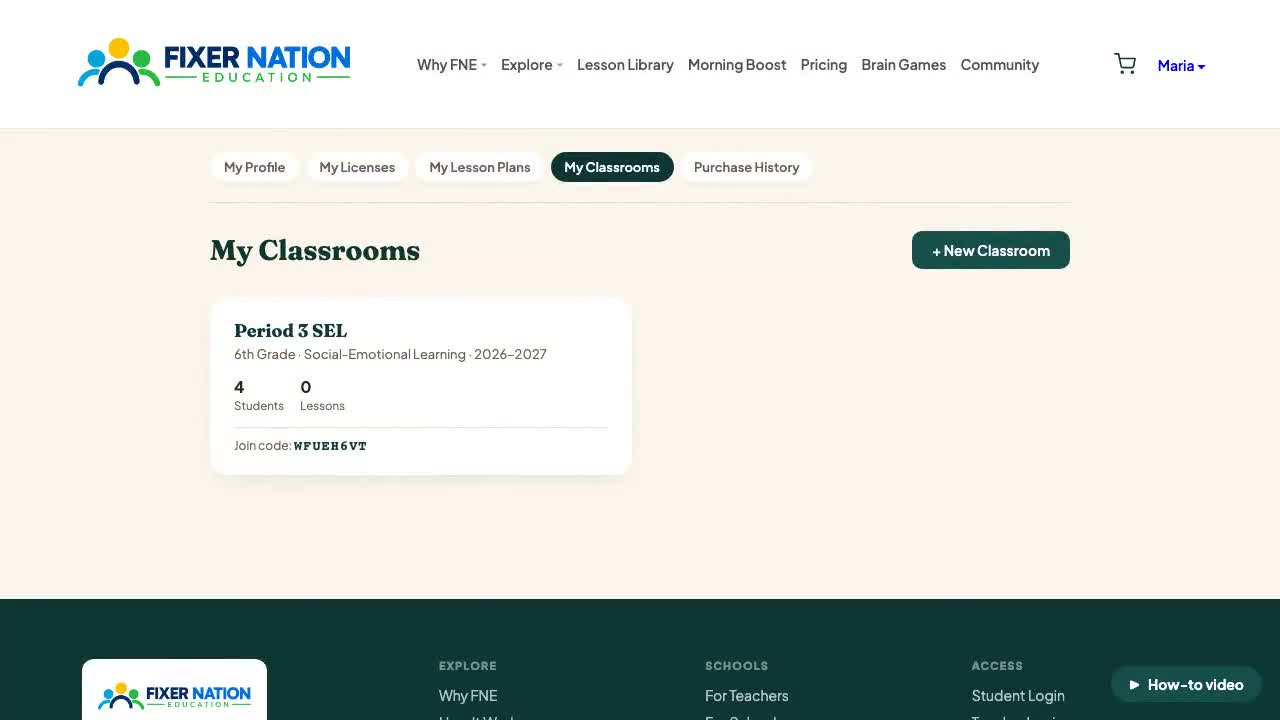
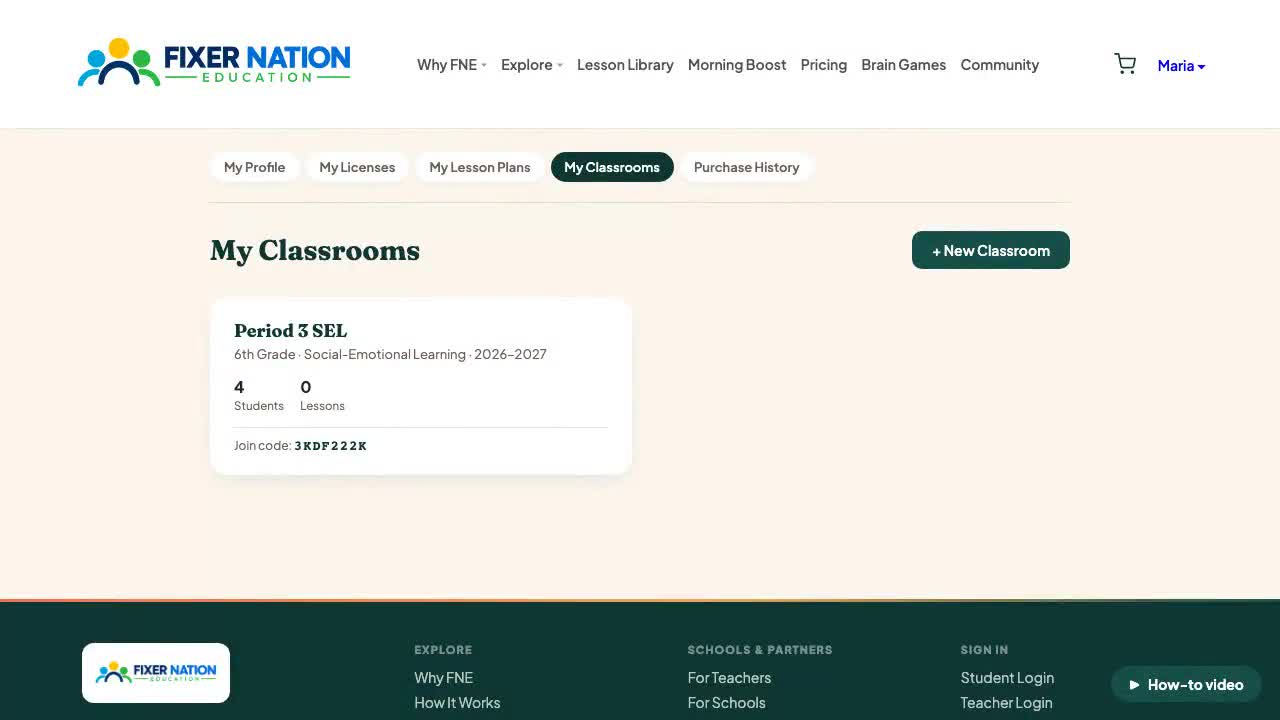
Release 156: T4 republished with the ideas box; My Graduate Portrait recommended answers
- T4 (Assign lessons and brain games) re-recorded and uploaded: narration and
  screen now cover the optional "Not sure what to assign?" ideas box. New
  captions and poster; help-videos.js is ?v=20 on every page that loads it.
- My Graduate Portrait requirements: researched recommended answers for
  D1 to D14 (section 13) with sources, and two more lawyer questions.
- CHANGELOG and VIDEO-STATUS updated.

diff --git a/help-videos.js b/help-videos.js
@@ -145,7 +145,7 @@
       pages: ['social-profile.html'], url: 'https://res.cloudinary.com/x9ll3a3t/video/upload/v1793737090/fne/help/M4.mp4', captions: '/help-assets/M4.vtt', poster: '/help-assets/M4.jpg' },
     { id: 'T4', group: 'teachers', topic: 'Lessons and results', title: 'Assign lessons and brain games',
       summary: 'Choose lessons and brain games for your class.',
-      pages: ['teacher-classroom.html'], url: 'https://res.cloudinary.com/x9ll3a3t/video/upload/v1793412324/fne/help/T4.mp4', captions: '/help-assets/T4.vtt', poster: '/help-assets/T4.jpg' },
+      pages: ['teacher-classroom.html'], url: 'https://res.cloudinary.com/x9ll3a3t/video/upload/v1794151372/fne/help/T4.mp4', captions: '/help-assets/T4.vtt', poster: '/help-assets/T4.jpg' },
     { id: 'T5', group: 'teachers', topic: 'Lessons and results', title: 'Read progress and student reflections',
       summary: 'See who started and finished, quiz scores and written reflections.',
       pages: ['teacher-classroom-progress.html', 'teacher-game-report.html'], url: 'https://res.cloudinary.com/x9ll3a3t/video/upload/v1793412326/fne/help/T5.mp4', captions: '/help-assets/T5.vtt', poster: '/help-assets/T5.jpg' },

diff --git a/admin-support-help.html b/admin-support-help.html
@@ -83,7 +83,7 @@
 
 <script src="admin-common.js?v=17"></script>
 <script src="help-center.js?v=12"></script>
-<script src="help-videos.js?v=19"></script>
+<script src="help-videos.js?v=20"></script>
 <script>
 function cell(text) { const td = document.createElement('td'); td.textContent = text; return td; }
 function row(cells) { const tr = document.createElement('tr'); cells.forEach(function (c) { tr.appendChild(c); }); return tr; }

diff --git a/school-admin-invitations.html b/school-admin-invitations.html
@@ -418,6 +418,6 @@ document.addEventListener('DOMContentLoaded', function () {
 
 function esc(str) { return String(str == null ? '' : str).replace(/&/g,'&amp;').replace(/</g,'&lt;').replace(/>/g,'&gt;').replace(/"/g,'&quot;').replace(/'/g,'&#39;'); }
 </script>
-<script src="help-videos.js?v=19" defer></script>
+<script src="help-videos.js?v=20" defer></script>
 </body>
 </html>

diff --git a/district-admin-dashboard.html b/district-admin-dashboard.html
@@ -135,6 +135,6 @@ function card(label, value, sub, cls) {
   return '<div class="sa-stat-card ' + cls + '"><div class="label">' + esc(label) + '</div><div class="value">' + esc(value) + '</div><div class="sub">' + esc(sub) + '</div></div>';
 }
 </script>
-<script src="help-videos.js?v=19" defer></script>
+<script src="help-videos.js?v=20" defer></script>
 </body>
 </html>

diff --git a/parent-invite-accept.html b/parent-invite-accept.html
@@ -336,7 +336,7 @@ function showError(msg) {
 function show(id) { document.getElementById(id).style.display = ''; }
 function hide(id) { document.getElementById(id).style.display = 'none'; }
 </script>
-<script src="help-videos.js?v=19" defer></script>
+<script src="help-videos.js?v=20" defer></script>
 <script src="site-logo.js?v=1"></script>
 </body>
 </html>

diff --git a/school-invite-accept.html b/school-invite-accept.html
@@ -388,7 +388,7 @@ function showError(msg) {
 function show(id) { document.getElementById(id).style.display = ''; }
 function hide(id) { document.getElementById(id).style.display = 'none'; }
 </script>
-<script src="help-videos.js?v=19" defer></script>
+<script src="help-videos.js?v=20" defer></script>
 <script src="site-logo.js?v=1"></script>
 </body>
 </html>

diff --git a/district-admin-schools.html b/district-admin-schools.html
@@ -332,6 +332,6 @@ async function submitAssign() {
 
 function esc(str) { return String(str == null ? '' : str).replace(/&/g,'&amp;').replace(/</g,'&lt;').replace(/>/g,'&gt;').replace(/"/g,'&quot;').replace(/'/g,'&#39;'); }
 </script>
-<script src="help-videos.js?v=19" defer></script>
+<script src="help-videos.js?v=20" defer></script>
 </body>
 </html>

diff --git a/school-admin-dashboard.html b/school-admin-dashboard.html
@@ -162,6 +162,6 @@ function renderDashboard(d) {
 
 function esc(str) { return String(str == null ? '' : str).replace(/&/g,'&amp;').replace(/</g,'&lt;').replace(/>/g,'&gt;').replace(/"/g,'&quot;').replace(/'/g,'&#39;'); }
 </script>
-<script src="help-videos.js?v=19" defer></script>
+<script src="help-videos.js?v=20" defer></script>
 </body>
 </html>

diff --git a/school-admin-org.html b/school-admin-org.html
@@ -258,6 +258,6 @@ function info(label, value) {
 
 function esc(str) { return String(str == null ? '' : str).replace(/&/g,'&amp;').replace(/</g,'&lt;').replace(/>/g,'&gt;').replace(/"/g,'&quot;').replace(/'/g,'&#39;'); }
 </script>
-<script src="help-videos.js?v=19" defer></script>
+<script src="help-videos.js?v=20" defer></script>
 </body>
 </html>

diff --git a/school-admin-reports.html b/school-admin-reports.html
@@ -299,6 +299,6 @@ function exportCsv(type) {
 
 function esc(str) { return String(str == null ? '' : str).replace(/&/g,'&amp;').replace(/</g,'&lt;').replace(/>/g,'&gt;').replace(/"/g,'&quot;').replace(/'/g,'&#39;'); }
 </script>
-<script src="help-videos.js?v=19" defer></script>
+<script src="help-videos.js?v=20" defer></script>
 </body>
 </html>

diff --git a/reset-password.html b/reset-password.html
@@ -136,7 +136,7 @@ document.getElementById('resetForm').addEventListener('submit', async function (
 
 <footer></footer>
 <script src="footer.js?v=18"></script>
-<script src="help-videos.js?v=19" defer></script>
+<script src="help-videos.js?v=20" defer></script>
 <script src="site-logo.js?v=1"></script>
 </body>
 </html>

diff --git a/help-videos.html b/help-videos.html
@@ -74,7 +74,7 @@
 <script src="nav.js?v=20"></script>
 <script src="site-auth.js?v=11"></script>
 <script src="footer.js?v=18"></script>
-<script src="help-videos.js?v=19"></script>
+<script src="help-videos.js?v=20"></script>
 <script>
 // Jump links for the groups that actually have something to show.
 (function () {
